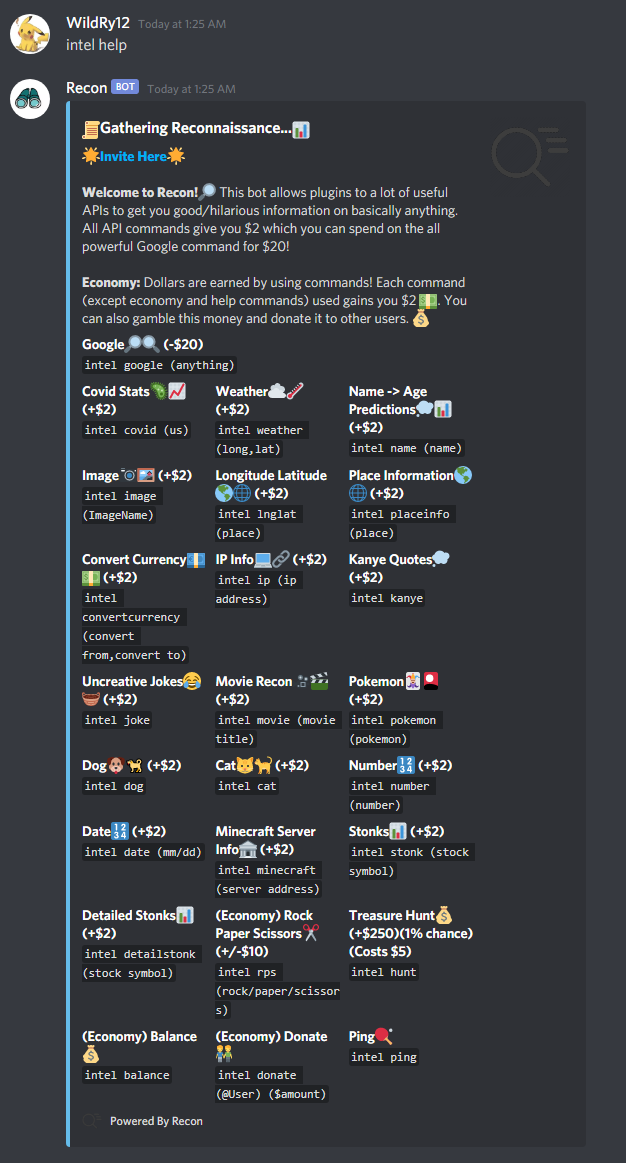
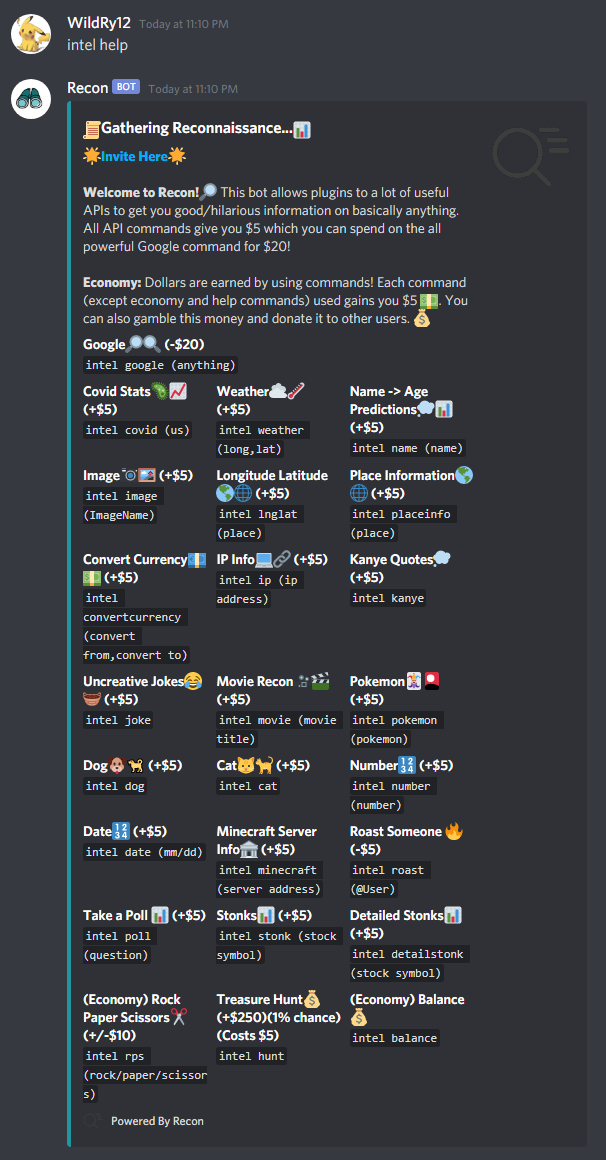
Added Poll and Updated Features

diff --git a/commands.html b/commands.html
@@ -130,11 +130,15 @@
         <p>Gamble $5 for the 1% chance of gaining $250. You're a legend if you do this first try.</p>
         </article>
         <article class = "right-article">
-        <h2>New Commands Always Being Added</h2>
+        <h2>Poll 📊</h2>
+        <p>Take a Poll With Images for Effect 😊</p>
         </article>
         <article class = "middle-article">
         <h2>Help ⁉ </h2>
         <p>All the Commands. Poggers</p>
+        </article>
+        <article class = "middle-article">
+        <h2>New Commands Always Being Added!</h2>
         </article>
         
             

diff --git a/index.html b/index.html
@@ -38,7 +38,7 @@
         <img src="Commandspic.png" alt="Google Example" class = "right-img">
         <h2>With Over 25 Custom Search Commands increasing every day, Recon Provides the Best Custom Search Experience in Discord Second to None. We take User Feedback into Great Consideration, Frequently Looking to Add new Features Wherever Possible!</h2>
         </article>
-    
+
     
 </body>
 </html>

diff --git a/main.css b/main.css
@@ -56,7 +56,6 @@ p {
     margin-top: 5%;
 }
 
-
 ul {
     list-style-type: none;
     margin: 0;
